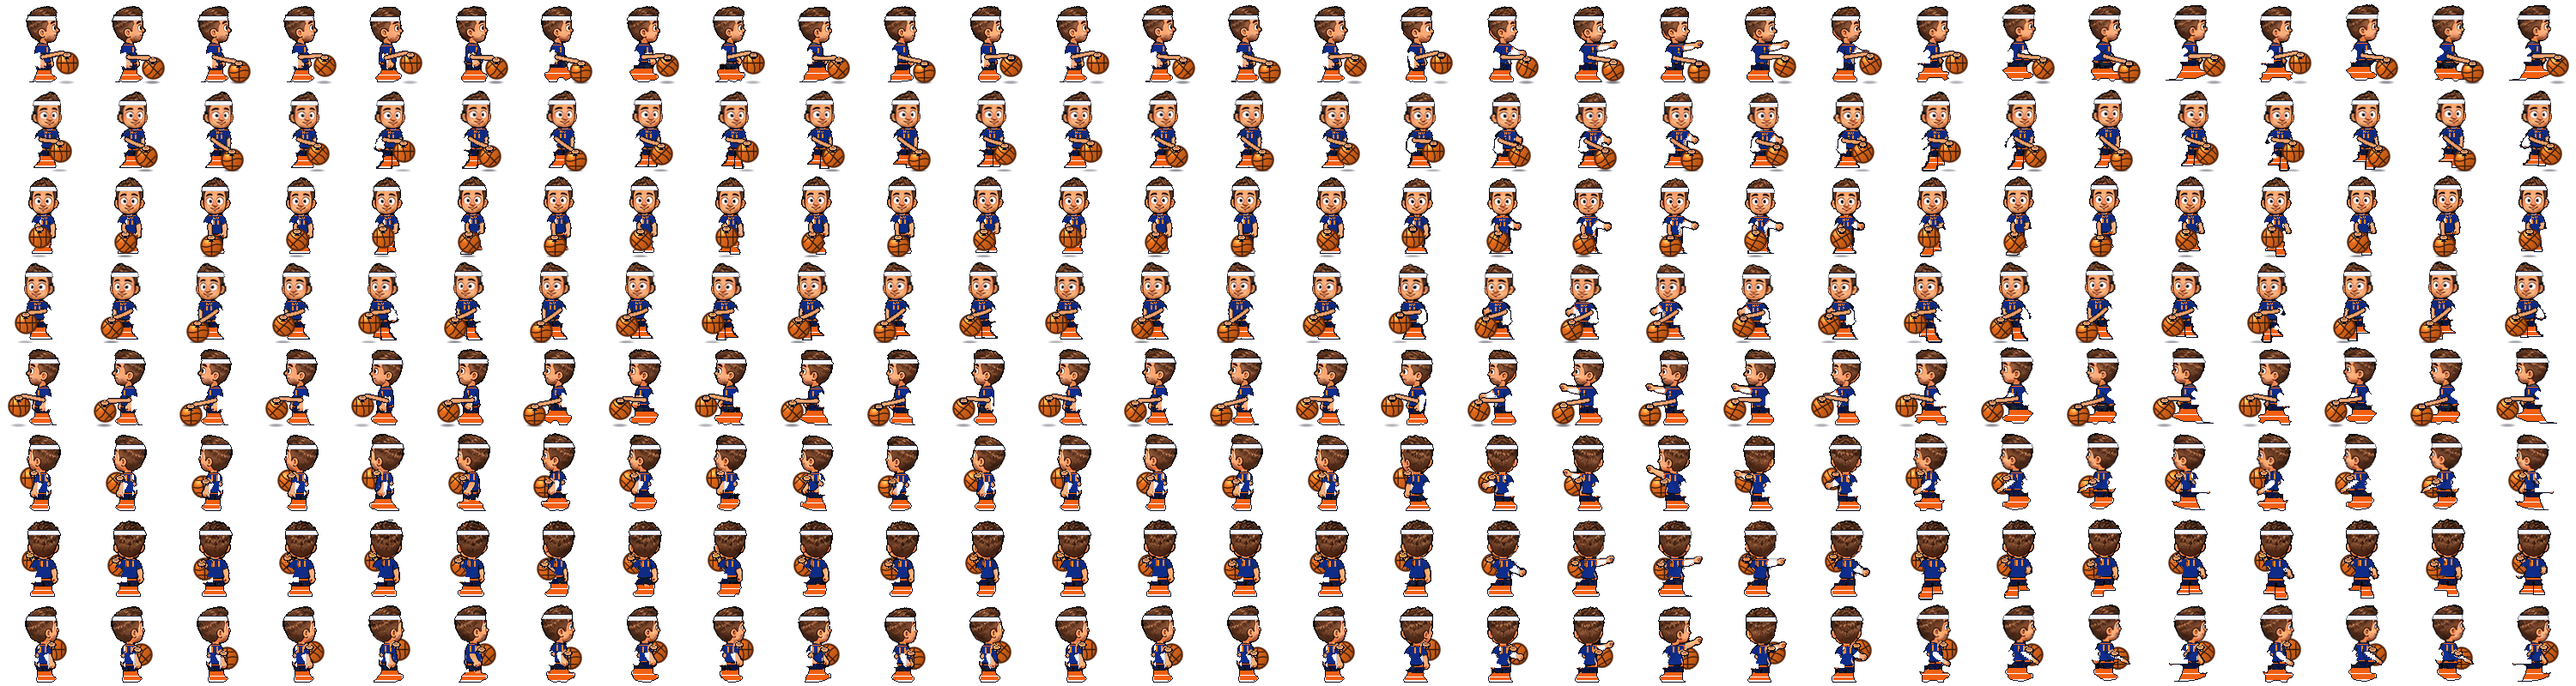
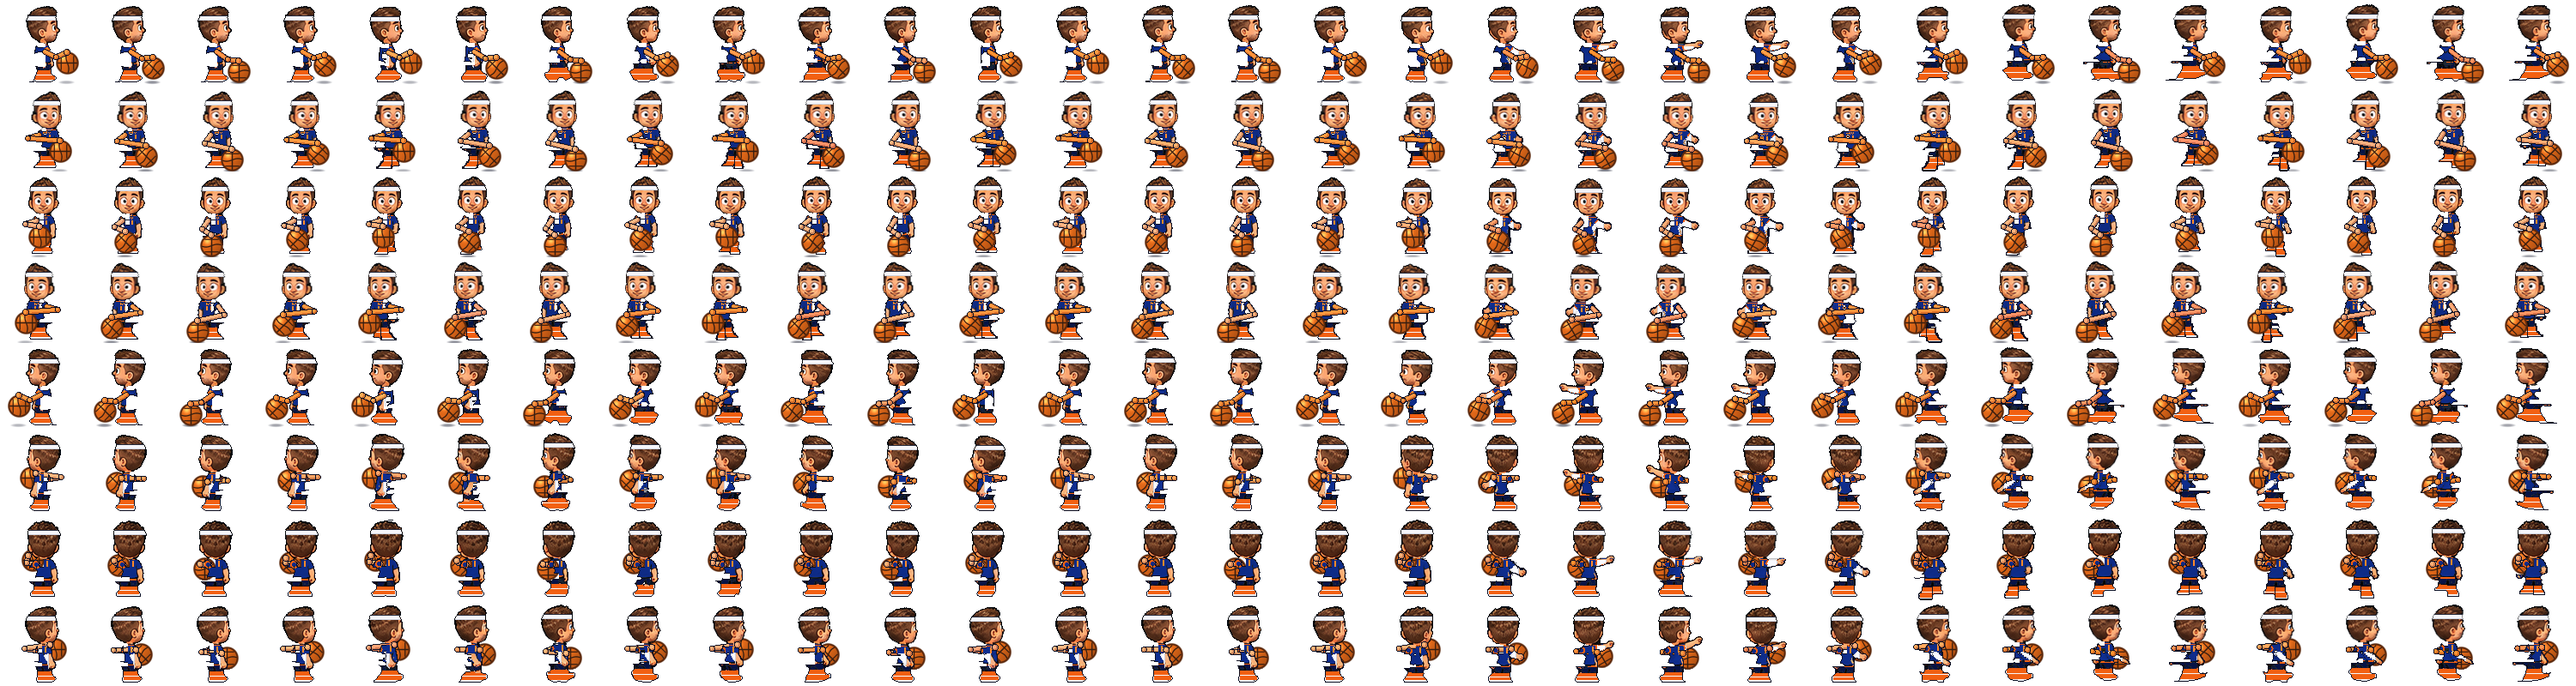
Replace the skinny dribble overlay with one matching arm.
The original arm on the dribble side is cleared and the shirt edge is closed, then a single arm is drawn from the shoulder through a bent elbow to a round hand on the ball. It uses the other arm's thickness, skin shading, and outline.

diff --git a/phaser-tag-client/tools/make_basketball_skin.py b/phaser-tag-client/tools/make_basketball_skin.py
@@ -25,7 +25,8 @@ Per frame:
      the ball. The sleeve arm still tags.
 
 Face and hair (under the headband) are untouched. The tagging hand stays
-the original skin; the dribbling arm is painted over the body.
+the original skin. The other arm is removed and one dribbling arm, the
+same thickness as that arm, is drawn from the shoulder to the ball.
 
 Requires: Python 3 + Pillow + numpy.  Usage:
     python3 tools/make_basketball_skin.py [--preview /tmp/basketball_preview.png]
@@ -529,22 +530,92 @@ def place_ball(g: Geometry, direction: str, anim: str, index: int):
 
 
 def drop_limp_arm(body: np.ndarray, g: Geometry, direction: str) -> np.ndarray:
-    """Remove the hanging arm on the dribble side. The sleeve (tag) arm is
-    white, so the skin arm left on that side is the one we replace. The
-    tag-side fist stays, including on the reach frames."""
+    """Clear the original arm on the dribble side, outline included.
+
+    The sleeve stays: that is the tagging arm, on the other side. What
+    remains on the dribble side is skin that used to be the hanging arm,
+    plus the dark pixels wrapped around it.
+    """
     h, w = body.shape[:2]
     yy = np.arange(h)[:, None]
     xx = np.arange(w)[None, :].astype(np.float64)
     side = float(-TAG_SIDE[direction])
-    face = (yy <= g.neck + 1) & skin_mask(body)
-    arms, _hands = arms_and_hands(body, g, face)
-    on_side = (xx - g.head_cx) * side > 3.0
-    limp = arms & on_side & (yy > g.neck + 1)
-    dark = alpha_mask(body) & (lum(body) < 70) & on_side & (yy > g.neck + 1)
-    limp = limp | grow(limp, dark, 1)
+    if direction in PROFILE:
+        # profile draws that arm along the back edge, just past centre
+        face = float(PROFILE[direction])
+        on_side = (xx - g.head_cx) * (-face) > -3.5
+    else:
+        on_side = (xx - g.head_cx) * side > 0.4
+    below = yy > g.neck + 1
+    above_leg = yy < g.hem
+    sk = loose_skin(body) & on_side & below & above_leg
+    # a raised arm during the run still counts, even up at the shoulder
+    raised = loose_skin(body) & on_side & (yy > g.neck - 2) & (yy <= g.neck + 2)
+    raised = raised & ((xx - g.head_cx) * side > 8)
+    sk = sk | raised
+    dark = alpha_mask(body) & (lum(body) < 90) & on_side & (yy > g.neck - 1) & above_leg
+    limp = sk | grow(sk, dark, 2)
     out = body.copy()
     out[limp] = 0
     return out
+
+
+def repair_torso(body: np.ndarray, g: Geometry, direction: str) -> np.ndarray:
+    """Close the bite the removed arm left in the shirt and re-ink that edge.
+
+    Only short gaps on the dribble side are filled, so the chest lettering
+    stays split and the other arm is left alone.
+    """
+    h, w = body.shape[:2]
+    side = float(-TAG_SIDE[direction])
+    out = body.copy()
+    for y in range(int(g.neck) + 2, int(g.hem) + 1):
+        xs = np.nonzero(out[y, :, 3] > 40)[0]
+        if len(xs) < 2:
+            continue
+        for i in range(len(xs) - 1):
+            gap = int(xs[i + 1] - xs[i] - 1)
+            if gap <= 0 or gap > 4:
+                continue
+            mid = (int(xs[i]) + int(xs[i + 1])) / 2.0
+            if (mid - g.head_cx) * side < 2:
+                continue
+            # the neighbour closer to the chest is the shirt colour to extend
+            inner = int(xs[i] if (xs[i] - g.head_cx) * side < (xs[i + 1] - g.head_cx) * side else xs[i + 1])
+            for x in range(int(xs[i]) + 1, int(xs[i + 1])):
+                out[y, x] = out[y, inner]
+    # crisp edge where the shirt now meets empty space
+    a = out[..., 3] > 200
+    rim = silhouette(a)
+    yy, xx = np.mgrid[0:h, 0:w]
+    band = (yy > g.neck + 1) & (yy < g.hem + 2) & ((xx - g.head_cx) * side > 0)
+    out[rim & band, :3] = INK
+    out[rim & band, 3] = 255
+    return out
+
+
+def shoulder_point(g: Geometry, direction: str) -> tuple[float, float]:
+    """Where the dribbling arm leaves the shirt."""
+    side = float(-TAG_SIDE[direction])
+    if direction in PROFILE:
+        # in profile the arm reaches forward, out of the front of the chest
+        face = float(PROFILE[direction])
+        return g.head_cx + face * 4.5, float(g.neck + 10)
+    if direction in BACK:
+        return g.head_cx + side * 9.0, float(g.neck + 8)
+    return g.head_cx + side * 10.0, float(g.neck + 8)
+
+
+def paint_armhole(body: np.ndarray, g: Geometry, sx: float, sy: float) -> None:
+    """Orange ring on the jersey around the socket. The arm covers the middle."""
+    h, w = body.shape[:2]
+    yy, xx = np.mgrid[0:h, 0:w]
+    d = np.hypot(xx - sx, yy - sy)
+    ring = (d >= 2.6) & (d <= 4.6) & (yy > g.neck) & (yy < g.neck + 15)
+    rgb = body[..., :3].astype(np.int16)
+    navy = (body[..., 3] > 200) & (rgb[..., 2] > rgb[..., 0] + 15) & (rgb[..., 2] > 60)
+    rim = silhouette(body[..., 3] > 200)
+    body[ring & navy & ~rim, :3] = ORANGE
 
 
 def scrub_loose_ink(body: np.ndarray) -> np.ndarray:
@@ -595,77 +666,107 @@ def _stamp(rgba: np.ndarray, pts: np.ndarray, rx: float, ry: float, color: np.nd
     rgba[mask, 3] = 255
 
 
-def _segment(p0: tuple[float, float], p1: tuple[float, float], n: int = 14) -> np.ndarray:
+def _along(p0: tuple[float, float], p1: tuple[float, float], step: float = 0.4) -> np.ndarray:
+    dist = float(np.hypot(p1[0] - p0[0], p1[1] - p0[1]))
+    n = max(2, int(dist / step) + 1)
     ts = np.linspace(0.0, 1.0, n)
     return np.stack([p0[0] * (1 - ts) + p1[0] * ts, p0[1] * (1 - ts) + p1[1] * ts], axis=1)
 
 
+def _skin_colors(rgba: np.ndarray, g: Geometry, direction: str) -> tuple[np.ndarray, np.ndarray]:
+    """Highlight and shade taken from the other hand, so this arm matches it."""
+    h, w = rgba.shape[:2]
+    yy = np.arange(h)[:, None]
+    xx = np.arange(w)[None, :]
+    tag = float(TAG_SIDE[direction])
+    r = rgba[..., 0].astype(np.int16)
+    gg = rgba[..., 1].astype(np.int16)
+    b = rgba[..., 2].astype(np.int16)
+    skin = (
+        (rgba[..., 3] > 200) & (r > 170) & (gg > 110) & (r - b > 40)
+        & (yy > g.neck + 4) & (yy < g.hem) & ((xx - g.head_cx) * tag > 2)
+    )
+    samples = rgba[skin][:, :3].astype(np.float64)
+    if len(samples) < 6:
+        face = (
+            (rgba[..., 3] > 200) & (r > 170) & (gg > 100)
+            & (yy > g.top + 16) & (yy < g.neck - 2)
+        )
+        samples = rgba[face][:, :3].astype(np.float64)
+    if len(samples) < 4:
+        mid = np.array([240.0, 174.0, 122.0])
+    else:
+        mid = np.median(samples, axis=0)
+    light = np.clip(mid + np.array([8.0, 10.0, 8.0]), 0, 255)
+    shade = np.clip(mid * np.array([0.84, 0.78, 0.76]), 0, 255)
+    return light, shade
+
+
+def _paint_limb(rgba: np.ndarray, pts: np.ndarray, radius: float,
+                light: np.ndarray, shade: np.ndarray) -> None:
+    """One pixel of dark outline, skin filling the rest, lit from the upper left."""
+    _stamp(rgba, pts, radius, radius, INK)
+    skin_r = max(1.15, radius - 1.0)
+    _stamp(rgba, pts, skin_r, skin_r, shade)
+    lit = pts + np.array([-0.75, -0.7])
+    _stamp(rgba, lit, max(0.8, skin_r - 0.85), max(0.8, skin_r - 0.85), light)
+
+
 def draw_dribble_arm(rgba: np.ndarray, g: Geometry, direction: str,
                      bx: float, by: float, ry: float, t: float) -> tuple[float, float]:
-    """Slim arm from the shoulder to a mitt on the crown of the ball.
-    A small outward bow while the ball is up, straightening as the hand
-    pushes down. The forearm stops at the wrist so it doesn't stab
-    through the ball. Returns the hand centre."""
-    side = float(-TAG_SIDE[direction])
-    if direction in PROFILE:
-        # out of the chest, reaching ahead to the ball
-        sx = g.head_cx + side * 2.0
-        sy = float(g.neck + 16)
-    elif direction in BACK:
-        sx = g.head_cx + side * 7.0
-        sy = float(g.neck + 14)
-    else:
-        sx = g.head_cx + side * 8.0
-        sy = float(g.neck + 13)
-    # start inside the shirt so the arm grows out of the shoulder
-    sx0, sy0 = sx - side * 1.5, sy
+    """One arm, shoulder to elbow to a round hand on the ball.
 
-    # mitt on the crown. Back views shift it onto the side that peeks out.
+    The elbow bends out while the ball is up and straightens as the hand
+    pushes down. Width matches the other arm: a 1px outline around skin.
+    Returns the hand centre.
+    """
+    side = float(-TAG_SIDE[direction])
+    sx, sy = shoulder_point(g, direction)
+    # overlap the shirt by a pixel so the arm comes out of the armhole
+    if direction in PROFILE:
+        face = float(PROFILE[direction])
+        sx0, sy0 = sx - face * 2.0, sy
+    else:
+        sx0, sy0 = sx - side * 1.6, sy
+
+    # hand sits on top of the ball so the fist reads, not buried in it.
+    # Back views put it on the side that peeks past the body.
     if direction in BACK:
-        hx = bx + side * ry * 0.28
-        hy = by - ry * 0.42
+        hx = bx + side * ry * 0.42
+        hy = by - ry * 0.40
     else:
         hx = bx
-        hy = by - ry * 0.70
-    # wrist: a few pixels above the mitt, back toward the shoulder
-    wx = hx + (sx0 - hx) * 0.18
-    wy = hy - 2.4
+        hy = by - ry * 0.92
 
-    bow = 2.6 * (1.0 - t) + 0.8
-    mx = (sx0 + wx) * 0.5 + side * bow
-    my = (sy0 + wy) * 0.5 + 0.6
-    ts = np.linspace(0.0, 1.0, 22)
-    omt = 1.0 - ts
-    limb = np.stack([
-        omt ** 2 * sx0 + 2 * omt * ts * mx + ts ** 2 * wx,
-        omt ** 2 * sy0 + 2 * omt * ts * my + ts ** 2 * wy,
-    ], axis=1)
-
-    face = skin_mask(rgba) & (np.arange(rgba.shape[0])[:, None] < g.neck - 2)
-    face = face & (np.arange(rgba.shape[0])[:, None] > g.top + 16)
-    samples = rgba[face][:, :3].astype(np.float64)
-    if len(samples) >= 8:
-        tone = np.median(samples, axis=0)
+    # Elbow out to the dribble side. A perpendicular bow was dropping the
+    # joint down the shirt, which read as a second arm lying on the torso.
+    u = t * t * (3.0 - 2.0 * t)
+    bend = 13.0 * (1.0 - u) + 7.0 * u
+    if direction in PROFILE:
+        ex = sx0 + (hx - sx0) * 0.50
+        ey = sy0 + (hy - sy0) * 0.55 + bend * 0.45
     else:
-        tone = np.array([244.0, 190.0, 140.0])
-    shade = np.clip(tone * 0.70, 0, 255)
-    edge = INK
+        # straight out to the side, then back in to the ball
+        ex = sx0 + side * bend
+        ey = sy0 + (hy - sy0) * 0.58
+    if ey < g.neck + 6:
+        ey = float(g.neck + 6)
 
-    # forearm ~6px wide, close to the kid's own arms
-    _stamp(rgba, limb, 3.15, 3.15, edge)
-    _stamp(rgba, limb, 2.15, 2.15, shade)
-    _stamp(rgba, limb, 1.25, 1.25, tone)
+    hand_r = 4.05
+    fx, fy = hx - ex, hy - ey
+    fl = float(np.hypot(fx, fy)) or 1.0
+    wx = hx - fx / fl * (hand_r * 0.72)
+    wy = hy - fy / fl * (hand_r * 0.72)
 
-    # three short fingers on the leather, then the palm over their base
-    fingers = []
-    for dx in (-2.5, 0.0, 2.5):
-        fingers.append(_segment((hx + dx, hy + 0.2), (hx + dx * 0.75, hy + 3.5), 6))
-    fing = np.concatenate(fingers, axis=0)
-    _stamp(rgba, fing, 1.35, 1.35, edge)
-    _stamp(rgba, fing, 0.75, 0.75, tone)
-    _stamp(rgba, np.array([[hx, hy + 0.3]]), 5.3, 3.5, edge)
-    _stamp(rgba, np.array([[hx, hy]]), 3.9, 2.4, tone)
-    _stamp(rgba, np.array([[hx, hy - 0.7]]), 2.2, 1.15, shade)
+    light, shade = _skin_colors(rgba, g, direction)
+    # same thickness as the other arm: ~7px across, 1px of that outline
+    arm_r = 3.45
+    upper = _along((sx0, sy0), (ex, ey))
+    fore = _along((ex, ey), (wx, wy))
+    _paint_limb(rgba, upper, arm_r, light, shade)
+    _paint_limb(rgba, fore, arm_r, light, shade)
+    _paint_limb(rgba, np.array([[ex, ey]]), arm_r + 0.15, light, shade)
+    _paint_limb(rgba, np.array([[hx, hy]]), hand_r, light, shade)
     return float(hx), float(hy)
 
 
@@ -674,7 +775,7 @@ def _occlude_reach(merged: np.ndarray, under: np.ndarray, body: np.ndarray,
     """Put the torso back over the reaching arm, but leave the hand."""
     h, w = merged.shape[:2]
     yy, xx = np.mgrid[0:h, 0:w]
-    hand = ((xx - hx) / 7.2) ** 2 + ((yy - (hy + 0.4)) / 5.6) ** 2 <= 1.0
+    hand = ((xx - hx) / 5.2) ** 2 + ((yy - hy) / 4.8) ** 2 <= 1.0
     restore = (body[..., 3] > 180) & ~hand
     merged[restore] = under[restore]
 
@@ -687,7 +788,9 @@ def baller(frame: np.ndarray, direction: str, anim: str, index: int) -> np.ndarr
     body, _chest, _hands = paint_uniform(src, g, direction)
     g = Geometry(body)
     body = drop_limp_arm(body, g, direction)
+    body = repair_torso(body, g, direction)
     body = scrub_loose_ink(body)
+    paint_armhole(body, g, *shoulder_point(g, direction))
     t = bounce_t(anim, index)
     bx, by, gx, gy, behind = place_ball(g, direction, anim, index)
     shadow = shadow_layer(body.shape[:2], gx, gy, strength=0.35 + 0.65 * t)
